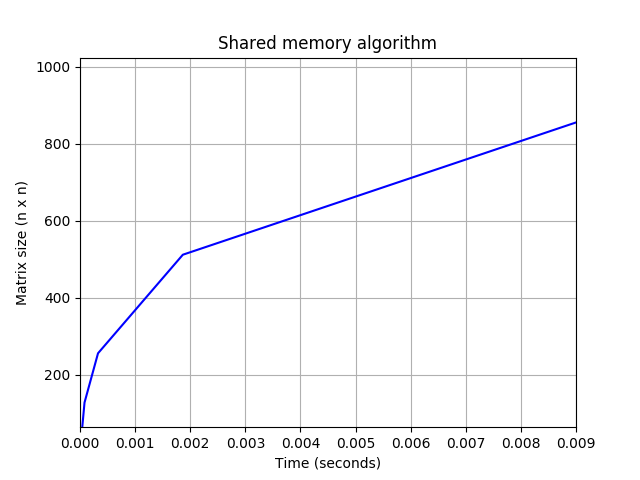
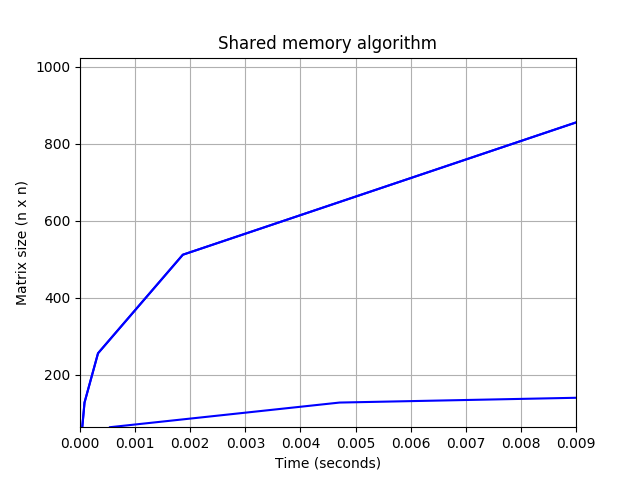
markdown doc

diff --git a/parcial2/segunda_parte/plotting.py b/parcial2/segunda_parte/plotting.py
@@ -24,46 +24,52 @@ matSize = [64,128,256,512,1024]
 
 fig1 = plt.gcf()
 secExeTime = [ans64[1], ans128[1], ans256[1], ans512[1], ans1024[1]]
-print secExeTime
+#print secExeTime
 plt.axis([0.000000, 5, 64, 1024])
 plt.grid(True)
 plt.title('Secuential algorithm')
 plt.xlabel('Time (seconds)')
 plt.ylabel('Matrix size (n x n)')
 plt.plot(secExeTime, matSize, color='blue')
-plt.show()
+#plt.show()
 fig1.savefig('images/secuential.png', format="png")
 
 fig2 = plt.gcf()
 globalExeTime = [ans64[2], ans128[2], ans256[2], ans512[2], ans1024[2]]
-print globalExeTime
+#print globalExeTime
 plt.axis([0.000, 0.020, 64, 1024])
 plt.grid(True)
 plt.title('Global memory algorithm')
 plt.xlabel('Time (seconds)')
 plt.ylabel('Matrix size (n x n)')
 plt.plot(globalExeTime, matSize, color='blue')
-plt.show()
+#plt.show()
 fig2.savefig('images/global.png', format="png")
 
 fig3 = plt.gcf()
 sharedExeTime = [ans64[3], ans128[3], ans256[3], ans512[3], ans1024[3]]
-print sharedExeTime
+#print sharedExeTime
 plt.axis([0.000, 0.009, 64, 1024])
 plt.grid(True)
 plt.title('Shared memory algorithm')
 plt.xlabel('Time (seconds)')
 plt.ylabel('Matrix size (n x n)')
 plt.plot(globalExeTime, matSize, color='blue')
-plt.show()
+#plt.show()
 fig3.savefig('images/shared.png', format="png")
 
+speedUpGlobal = [ans64[1]/ans64[2], ans128[1]/ans128[2], ans256[1]/ans256[2], ans512[1]/ans512[2], ans1024[1]/ans1024[2]]
+speedUpShared = [ans64[1]/ans64[3], ans128[1]/ans128[3], ans256[1]/ans256[3], ans512[1]/ans512[3], ans1024[1]/ans1024[3]]
+#print speedUpGlobal
+#print speedUpShared
 fig4 = plt.gcf()
-plt.axis([0.000, 0.009, 64, 1024])
+plt.axis([64, 1024, 0, 1300])
 plt.grid(True)
 plt.title('Speed up')
-plt.xlabel('Time (seconds)')
-plt.ylabel('Matrix size (n x n)')
-plt.plot(globalExeTime, matSize, secExeTime, matSize, color='blue')
+plt.ylabel('Speed up')
+plt.xlabel('Matrix size (n x n)')
+plt.plot(speedUpGlobal, matSize, speedUpShared,  matSize)
+plt.legend(('Global-mem','Shared-mem'),
+           loc='upper right')
 plt.show()
-fig3.savefig('images/sec-glo.png', format="png")
+fig3.savefig('images/speed-up.png', format="png")

diff --git a/parcial2/segunda_parte/review.md b/parcial2/segunda_parte/review.md
@@ -60,5 +60,8 @@ __global__ void sdmem_matMult(int* m1, int* m2, int* ansS, int n){
   ansS[row * n + col] = sum;
 }
 ```
-
 ![](images/shared.png)
+
+**Aceleración del algoritmo**
+
+![](images/speed-up.png)
